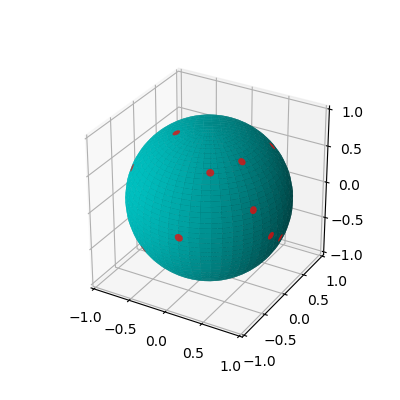
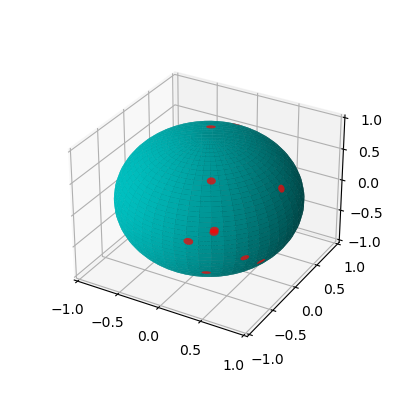
main learning

diff --git a/main_learn.py b/main_learn.py
@@ -1,20 +1,57 @@
 import numpy as np
 from ReceptorMap import *
+from ML_Brownian_Interface import *
+import random_3d_rotation 
 
-
-############## intialize receptor map ###################
-radius = 1
+############## Parameters for receptor map ###################
 receptornum = 10
-mindistance = 0.05
+recepsurface_ratio = 100 # mindistance to activate receptor is radius/recepsurface_ratio 
+particlenum = 20
 
-receptor_sphcoords,receptor_cartcoords, activation_receptors = init_Receptors(receptornum,radius)
-plot = visualize_Receptors(receptor_cartcoords,radius,mindistance)
-plot.show()
+sourcenum = 10
+diffusionnum = 11
+distancenum = 10
+maxdistance = 10
+radiusnum = 10
+maxradius = 1
+ratenum = 10
+maxrate = 1
+
+source_theta = np.array(sourcenum)
+source_phi = np.array(sourcenum)
+diffusion_constants  = np.logspace(-6,0,diffusionnum)
+distance_from_source = np.linspace(0,maxdistance,distancenum)
+rate = np.linspace(0.1,maxrate,ratenum)
+radius_sphere = np.linspace(0.1,maxradius,radiusnum)
+
+
 
 ### action #####
 # need to link matlab to python, not sure yet how
 
-#### parameters for brownian particle ########
 
+########### LOOPs for data #################
+receptor_seed=1
+receptor_sphcoords,receptor_cartcoords, activation_array = init_Receptors(receptornum,1,receptor_seed)
 
+for s in range(0,sourcenum):
+    source_theta[s],source_phi[s] = random_3d_rotation(cart2spherical_point(0,0,1),s)
+    sourcex,sourcey,sourcez = spherical2cart_point(source_theta[s],source_phi[s])
+    #function to relate source coordinates to action direction -> make Y vector
+    for r in radius_sphere:
+        for distance in distance_from_source:
+            for ra in rate:
+                for dif in diffusion_constants:
+                    for p in range(0,particlenum):
+                        #needs source position and radius to be included in parameters
+                        brownian_pipe,received = init_BrownianParticle(sourcex,sourcey,sourcez,r,distance,ra,dif,p ) 
+                        #do we fix parameters:training,cutoff,events,iterations? most realistic are big numbers
+                        theta_mol, phi_mol = cart2spherical_point(received[0],received[1],received[2])
+                        ind = activation_Receptors(theta_mol,phi_mol,receptor_sphcoords,radius_sphere[r],mindistance)
+                        if ind == -1: pass
+                        else: activation_array[ind] += 1
+                        received = update_BrownianParticle(brownian_pipe)# do we need this if it doesn't move?
+                    #how to we organize the activation arrays?
+                    #just a large matrix, all related to the same Y?
 
+    

diff --git a/ReceptorMap.py b/ReceptorMap.py
@@ -8,15 +8,15 @@ from mpl_toolkits.mplot3d import proj3d
 from matplotlib.patches import Circle
 from itertools import product
 
-def init_Receptors(receptornum, radius):
+def init_Receptors(receptornum, radius, seed=0):
 # Distribution of receptors:
 # This code was taken from GitHub: https://gist.github.com/dinob0t/9597525
 # Uses reference: https://www.cmu.edu/biolphys/deserno/pdf/sphere_equi.pdf
-    x,y,z = random_on_sphere_points(radius,receptornum)
-    theta,phi= sphericaltransf(x,y,z) #same orientation as the phi and theta from the molecules?
-    receptor_sphcoords= np.concatenate(([theta],[phi])).T
-    receptor_cartcoords= np.concatenate(([x],[y],[z])).T
-    activation_receptors=np.zeros((receptornum))
+    x,y,z = random_on_sphere_points(radius,receptornum, seed=0)
+    theta,phi = cart2spherical_receptors(x,y,z) 
+    receptor_sphcoords = np.concatenate(([theta],[phi])).T
+    receptor_cartcoords = np.concatenate(([x],[y],[z])).T
+    activation_receptors = np.zeros((receptornum))
     return receptor_sphcoords,receptor_cartcoords, activation_receptors
 
 def visualize_Receptors(receptor_cartcoords,radius, mindistance):  
@@ -66,21 +66,5 @@ def visualize_MoleculeHit(radius,plt,molecule_theta,molecule_phi):
     ax.scatter(radius*np.cos(molecule_phi)*np.sin(molecule_theta),radius*np.sin(molecule_phi)*np.sin(molecule_theta),radius*np.cos(molecule_theta))
     return plt
 """
-########################
-#Try it out
-
-
-radius = 1
-receptornum = 10
-mindistance = 0.05
-
-receptor_sphcoords,receptor_cartcoords, activation_receptors = init_Receptors(receptornum,radius)
-plot = visualize_Receptors(receptor_cartcoords,radius,mindistance)
-#plot.show()
-plt.savefig('Receptor_visualization01.png')
-#plot2=visualize_MoleculeHit(radius,plot,0.1,0.1)
-#plot2.show()
-
-ind=activation_Receptors(0.1,0.1,receptor_sphcoords,radius,mindistance)
-print(ind)
+#######################
 

diff --git a/sphericaltransf.py b/sphericaltransf.py
@@ -1,13 +1,24 @@
 import numpy as np
 import math
-def sphericaltransf(x,y,z):
+
+def cart2spherical_point(x,y,z):
+    r = math.pow(x,2) + math.pow(y,2) + math.pow(z,2)
+    theta = math.pi/2 - math.acos(z/r)
+    phi = math.atan2(y,x)
+    return r,theta,phi
+
+def cart2spherical_receptors(x,y,z):
     receptnum = len(x)
     r = np.zeros((receptnum))
     theta = np.zeros((receptnum))
     phi = np.zeros((receptnum))
-
     for i in range(0,receptnum):
-        r[i] = math.pow(x[i],2) + math.pow(y[i],2) + math.pow(z[i],2)
-        theta[i] = math.pi/2 - math.acos(z[i]/r[i])
-        phi[i] = math.atan2(y[i],x[i])
+        r[i], theta[i], phi[i] = cart2spherical_point(x[i],y[i],z[i]) 
     return theta,phi
+
+def spherical2cart_point(theta,phi):
+    x = math.sin(theta)*math.cos(phi)
+    y = math.sin(theta)*math.sin(phi)
+    z = math.cos(theta)
+    return x,y,z
+

diff --git a/pointssphere.py b/pointssphere.py
@@ -3,12 +3,14 @@ import math
 #This code was taken from GitHub: https://gist.github.com/dinob0t/9597525
 #Uses reference: https://www.cmu.edu/biolphys/deserno/pdf/sphere_equi.pdf
 
-def random_on_sphere_points(r,num):
+def random_on_sphere_points(r,num,seed=0):
     x = []
     y = []
     z = []
     for i in range(0,num):
+        random.seed(seed+i)
         zz =  random.uniform(-r,r)
+        random.seed(seed+i)
         phi = random.uniform(0,2*math.pi)
         xx = math.sqrt(r**2 - zz**2)*math.cos(phi)
         yy = math.sqrt(r**2 - zz**2)*math.sin(phi)
@@ -16,7 +18,6 @@ def random_on_sphere_points(r,num):
         y.append(yy)
         z.append(zz)
     return x,y,z
-
 def regular_on_sphere_points(r,num):
     x = []
     y = []

diff --git a/random_3d_rotation.py b/random_3d_rotation.py
@@ -6,7 +6,7 @@ import numpy as np
 # numpy array of phi and theta can be used but must have the same shape
 # The used distribution on the space of rotations is the Haar measure, i.e. it is uniform on SO(3)
 # if the seed can be specified using use_seed. If not specfied, seeds will change automatically
-def random_3d_rotation(theta,phi,use_seed=None):   
+def random_3d_rotation(theta,phi, use_seed=None):   
     try:
         np.random.seed(seed=use_seed)
         y=np.matmul(special_ortho_group.rvs(3),np.array([np.cos(phi)*np.sin(theta),np.sin(phi)*np.sin(theta),np.cos(theta)]))#special_ortho_group.rvs(3)

diff --git a/BrownianParticle.c b/BrownianParticle.c
@@ -12,7 +12,7 @@
 /* This code generates N trajectories of Brownian particles.
  * They eminate from a source at the origin and proceeed until
  * their distances is greater than cutoff or until they hit the
- * surface of a sphere (center on x-axis at distance d radius r).
+ * surface of a sphere (center on z-axis at distance d radius r).
  *
  * The output is 
  * time coordinate
